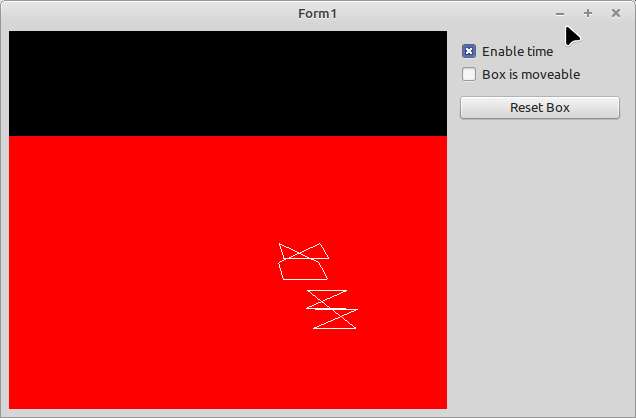
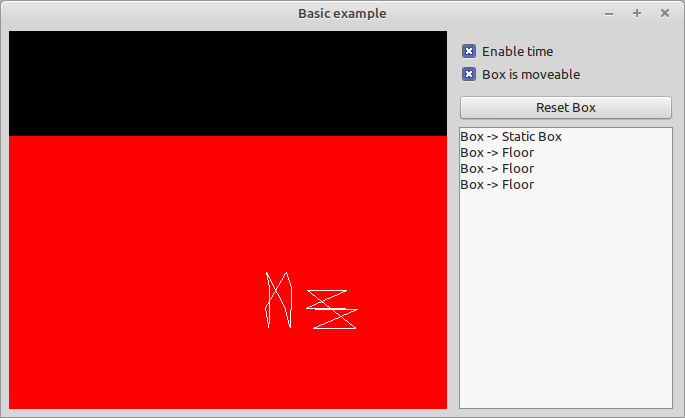
ADD: Collision detection to 000_Basic example

diff --git a/000_Basic/Readme.md b/000_Basic/Readme.md
@@ -5,7 +5,7 @@ This is the most Basic Example that someone can think of.
 ## Content
 - Initialize the Kraft Engine
 - Create a floor plane
-- Create some elements
+- Create some elements (by different methods)
 - Simulate time and see results
 - Change State of Object (solid / movable) and reset if needed
 - Detect collisions
